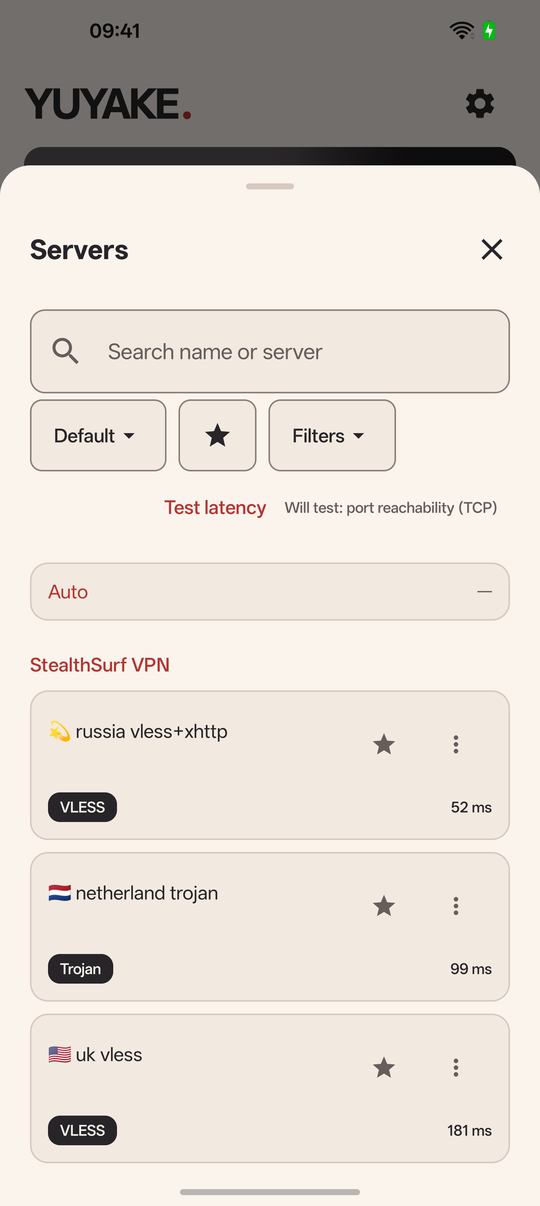
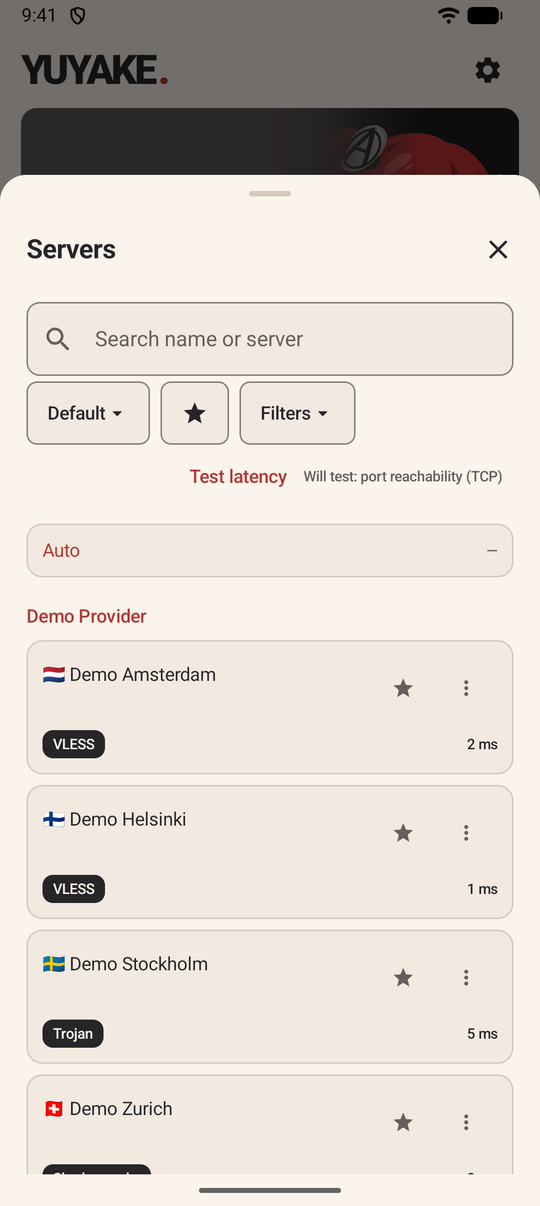
docs: replace README screenshots with synthetic demo data

diff --git a/README.ru.md b/README.ru.md
@@ -24,9 +24,9 @@ VPN/прокси-клиент для Android на ядре **sing-box** (libbox)
   <img src="docs/screenshots/home-dark.png" width="240" alt="Тёмная тема">
 </p>
 
-Скриншоты сняты на физическом телефоне с реальными подписками и показывают
-текущий, не финальный дизайн. Сообщения провайдеров на экране подписок показаны
-так, как их прислали провайдеры. Интерфейс приложения на скриншотах английский;
+Скриншоты сняты на эмуляторе Android с локальной демо-подпиской и синтетическими
+данными (выдуманные серверы и расход трафика) и показывают текущий, не
+финальный дизайн. Интерфейс приложения на скриншотах английский;
 русский язык в приложении тоже есть.
 
 ## Что умеет

diff --git a/README.md b/README.md
@@ -25,9 +25,9 @@ Hysteria2, TUIC).
   <img src="docs/screenshots/home-dark.png" width="240" alt="Dark theme">
 </p>
 
-Screenshots are from a physical phone with real subscriptions and show the
-current, non-final design. Provider messages in the Subscriptions screen are
-shown as the providers sent them.
+Screenshots are taken on an Android emulator with a local demo subscription and
+synthetic data (made-up servers and usage) and show the current, non-final
+design.
 
 ## What it does
 
